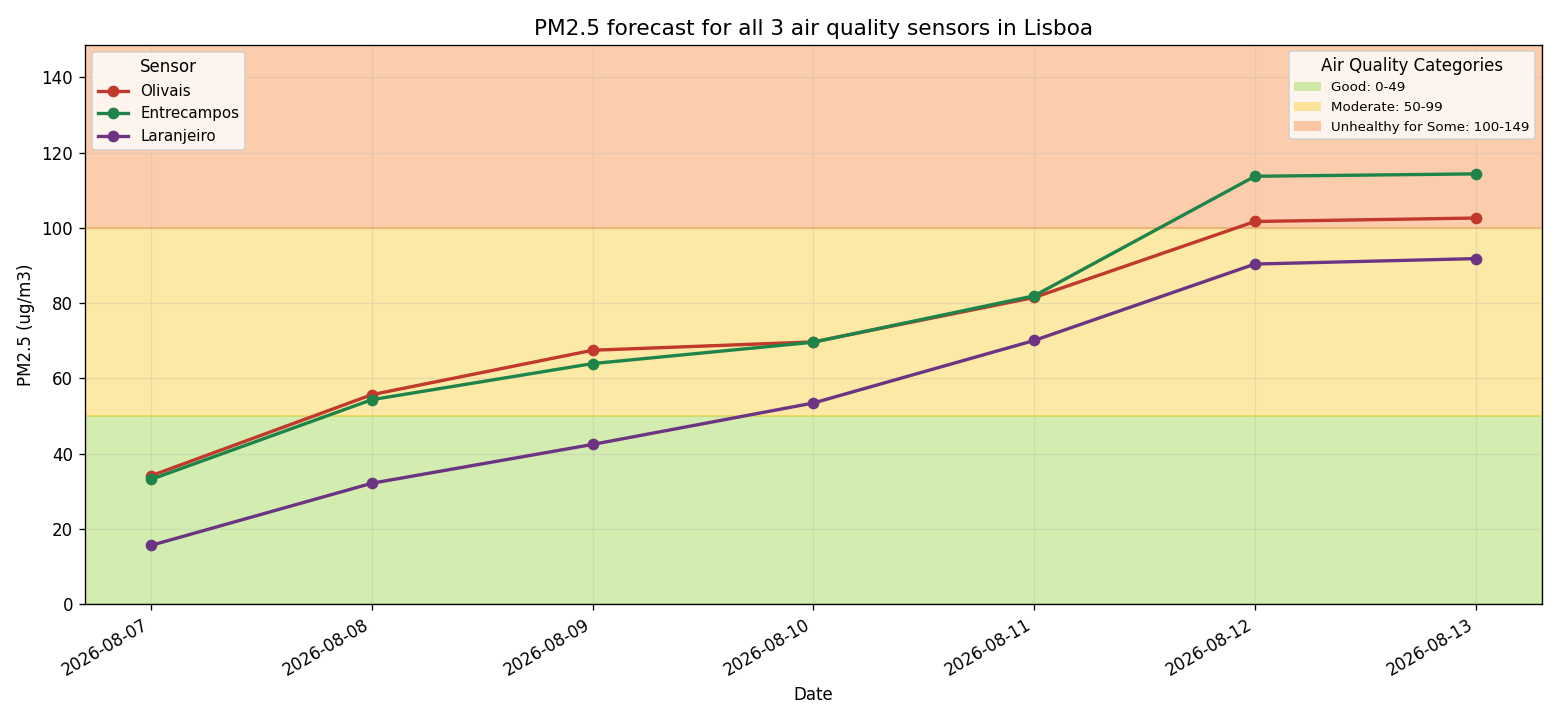
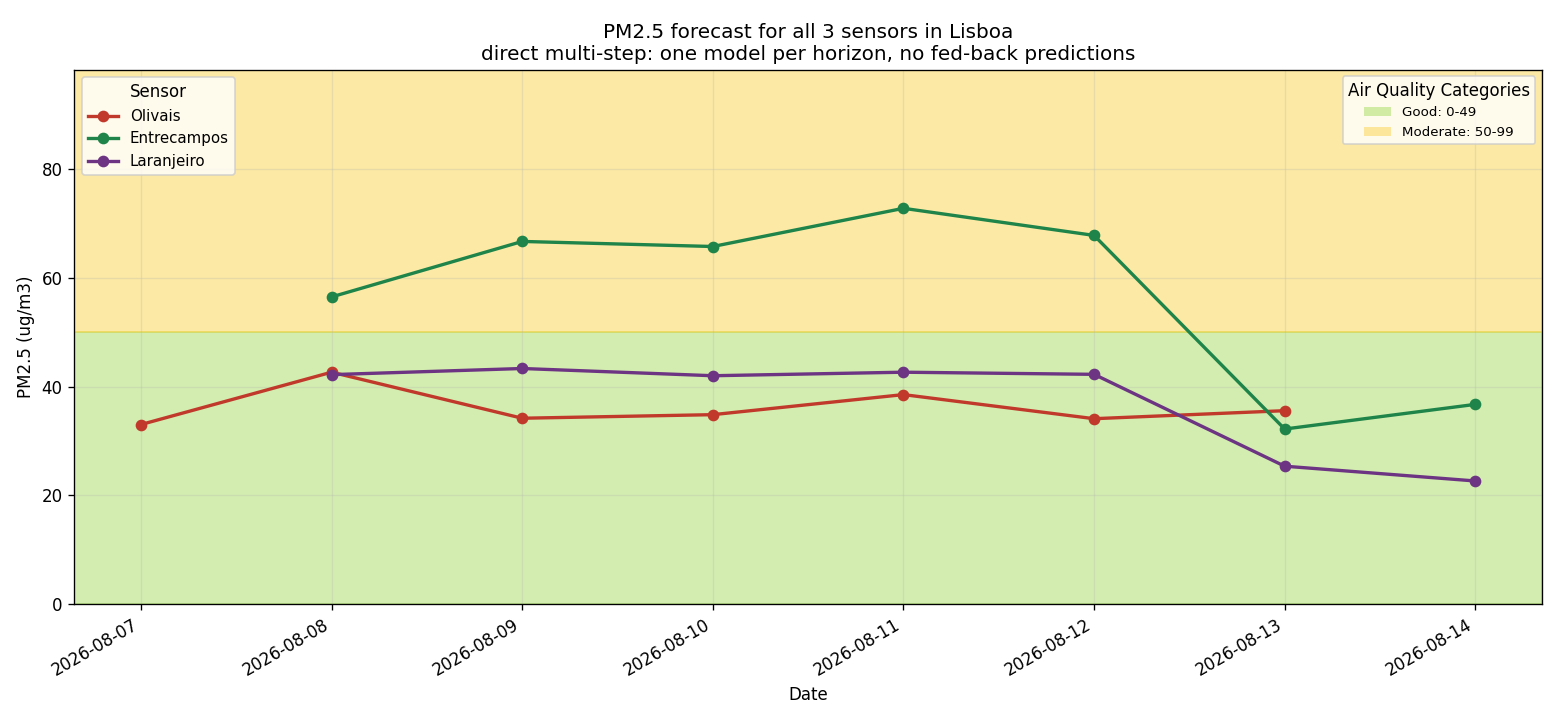
Publish the corrected forecast and report skill honestly
Direct multi-step models bring the forecast back to 22-73 ug/m3 from the
recursive version's 102-114, but the skill decomposition shows the model
has almost no forecasting ability: R2 +0.02 at t+1, below zero from t+3,
and persistence beats it at nearly every horizon.

The dashboard and README now say so rather than presenting the forecast
as reliable, and distinguish the nowcast metrics (R2 +0.514, predicting
today from today's weather) from genuine forecasting, which is the
harder problem the skill chart measures.

diff --git a/RESULTS.md b/RESULTS.md
@@ -373,6 +373,66 @@ reading is:
   separate model per horizon (t+1, t+2, … t+7), each predicting from measured
   features only, so no prediction is ever fed back as an input.
 
+### Fix: direct multi-step forecasting
+
+Implemented in `colab_7b_direct_multistep.ipynb`. Seven models are trained, one
+per horizon; each predicts PM2.5 at t+h from features measured at time t, so no
+prediction is ever an input to another prediction.
+
+**The forecast is now plausible.** Predictions span 22–73 µg/m³ across the three
+sensors and stay flat-to-varying instead of climbing, against the recursive
+version's 102–114 µg/m³.
+
+### Forecast skill by horizon
+
+| Horizon | Model R² | Persistence R² | Useful? |
+|---|---|---|---|
+| t+1 | +0.02 | **+0.70** | No — persistence far better |
+| t+2 | **+0.14** | +0.27 | Marginally, but persistence still wins |
+| t+3 | −0.15 | −0.12 | No |
+| t+4 | −0.73 | −0.39 | No |
+| t+5 | −0.55 | −0.57 | No |
+| t+6 | −1.17 | −0.73 | No |
+| t+7 | −0.73 | −0.94 | No |
+
+**This is the honest conclusion of the project, and it should be stated
+plainly:**
+
+1. **The model has almost no skill at any horizon.** Only t+2 is above zero by
+   a meaningful margin, and even there a persistence baseline beats it.
+2. **Persistence dominates at short horizons** (R² +0.70 at t+1). Practically,
+   the best 1-day forecast for this sensor network is "tomorrow will be like
+   today" — no machine learning required.
+3. **Both decay to useless by t+3–4.** Beyond roughly two days, neither the
+   model nor persistence beats predicting the long-run mean. Daily PM2.5 at
+   these stations is not predictable from daily weather at this range.
+4. **The Task 6 result is consistent with this.** The 74.5% MSE improvement
+   from lag features looked impressive, but the skill decomposition shows why:
+   the lags were carrying almost all of the signal, and the signal itself is
+   only the target's autocorrelation.
+
+Why the earlier single-sensor figure (R² +0.514, Task 6) looks better than the
++0.02 here: that number is for a *nowcast* — predicting today's PM2.5 given
+today's weather and yesterday's reading. Genuine forecasting means predicting a
+day whose weather has not happened yet, which is a strictly harder problem. The
+drop from +0.514 to +0.02 is the price of that distinction, and it is easy to
+report the flattering number by accident.
+
+### What would actually be needed
+
+To forecast PM2.5 usefully at these stations, the system would need drivers the
+current features do not contain:
+
+- **Emission proxies** — traffic counts, industrial activity, day-of-week
+  patterns. PM2.5 is produced by human activity; weather only disperses it.
+- **Regional transport** — Saharan dust intrusions and wildfire smoke drive
+  many of Lisboa's PM2.5 spikes and arrive from outside the city entirely.
+- **Atmospheric stability** — boundary-layer height and inversion conditions
+  govern whether pollution accumulates or disperses, and neither is captured by
+  surface temperature or wind speed.
+- **Sub-daily resolution** — daily means hide the morning and evening traffic
+  peaks that dominate the exposure people actually experience.
+
 ---
 
 ## Engineering problems solved

diff --git a/README.md b/README.md
@@ -68,18 +68,38 @@ date-based train/test split possible.
 | All sensors | + `street` | 67.87 | 8.24 | +0.521 |
 | *Persistence baseline* | *`pm25_lag_1` alone* | *45.66* | *6.76* | *+0.609* |
 
-Three findings worth highlighting:
+Note that the rows above are **nowcasts** — predicting today's PM2.5 given
+today's weather and yesterday's reading. True forecasting is harder, and the
+skill decays quickly:
+
+| Horizon | Model R² | Persistence R² |
+|---|---|---|
+| t+1 | +0.02 | **+0.70** |
+| t+2 | +0.14 | +0.27 |
+| t+3 | −0.15 | −0.12 |
+| t+7 | −0.73 | −0.94 |
+
+Four findings worth highlighting:
 
 1. **Weather alone cannot predict PM2.5.** The baseline scored R² = −0.904 —
    worse than predicting the mean. Weather disperses pollution; it does not
    create it.
 2. **Lagged features cut MSE by 74.5%.** PM2.5 correlates +0.68 with the
    previous day, and that autocorrelation is the strongest available signal.
-3. **A persistence baseline still beats the trained model.** "Today equals
-   yesterday" scores MSE 45.66 against the model's 56.73. Most of the
-   improvement in (2) comes from the lag features rather than from the
-   learning, and the weather features add variance the target does not have.
-   Reporting only the 74.5% improvement would have been misleading.
+3. **A persistence baseline beats the trained model** at essentially every
+   horizon. "Tomorrow will be like today" scores R² +0.70 one day ahead against
+   the model's +0.02. Most of the improvement in (2) comes from the lag
+   features rather than from the learning.
+4. **Beyond ~2 days there is no usable skill.** Both the model and persistence
+   fall below R² = 0 from day three, meaning neither beats predicting the
+   long-run average. Daily PM2.5 at these stations is not predictable from
+   daily weather at that range.
+
+Reporting only the 74.5% improvement would have been misleading, so the skill
+decomposition is published alongside it. [RESULTS.md](RESULTS.md) discusses what
+additional data — emission proxies, regional dust and smoke transport,
+boundary-layer stability, sub-daily resolution — would be needed to forecast
+this target usefully.
 
 See [RESULTS.md](RESULTS.md) for per-sensor breakdowns, the hindcast analysis,
 and a discussion of why multi-step forecasts compound bias.

diff --git a/docs/air-quality/index.md b/docs/air-quality/index.md
@@ -21,11 +21,24 @@ trained on 10,093 daily observations. The station enters the model as a
 categorical feature, so one model learns each site's characteristic offset
 while sharing the signal common to all of them.
 
-> **Reading these forecasts:** only the day-1 prediction uses measured inputs.
-> Later days feed the model's own predictions back in as lagged features, so
-> bias compounds and the upward trend beyond ~3 days is an artifact of that
-> feedback rather than a genuine air-quality warning. The hindcast below
-> measures day-1 accuracy, which is the horizon to trust.
+Forecasts use **direct multi-step** models — one per horizon, each predicting
+from measured features only, so no prediction is ever fed back in as an input.
+
+> **How much to trust these:** not very much, and the chart below says why.
+> On the held-out test window this model scores R² ≈ +0.02 one day ahead and
+> falls below zero from day three, meaning it does not beat simply predicting
+> the long-run average. A plain "tomorrow will be like today" baseline
+> outperforms it at every short horizon. This is reported rather than hidden:
+> daily PM2.5 at these stations is not well predicted by daily weather.
+
+## How far ahead is this useful?
+
+![Forecast skill](./assets/img/forecast_skill_by_horizon.png)
+
+R² above zero beats predicting the mean; below zero it does not. The
+persistence line — "predict t+h as today's value" — beats the trained model at
+almost every horizon, which locates the real signal: PM2.5 is autocorrelated,
+and that autocorrelation is nearly all the predictability available here.
 
 ### Single-sensor forecast (Olivais)
 
